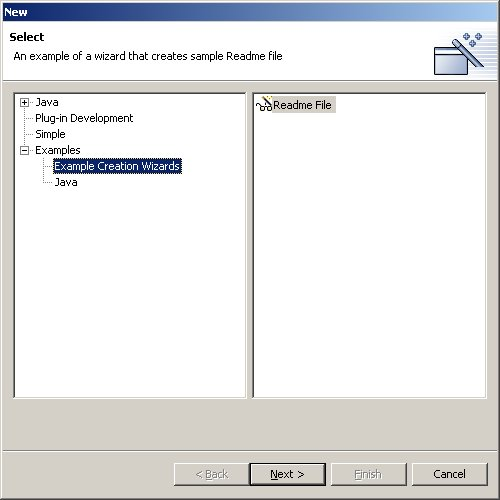
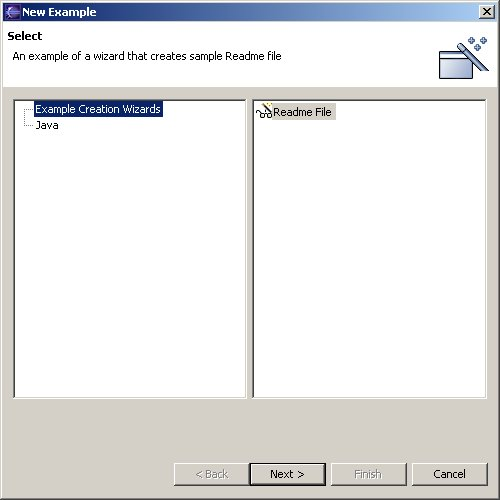
*** empty log message ***

Changed region(s): [[0.0, 0.0, 1.0, 0.39], [0.0, 0.9, 0.99, 0.93], [0.0, 0.0, 0.57, 0.12]]

diff --git a/bundles/org.eclipse.platform.doc.isv/guide/dialogs_wizards_newWizards.htm b/bundles/org.eclipse.platform.doc.isv/guide/dialogs_wizards_newWizards.htm
@@ -16,7 +16,7 @@ org.eclipse.ui.newWizards
 <H3>
 org.eclipse.ui.newWizards</H3>
 <P >
-You can add a wizard to the <b> File-&gt;New </b> menu option in the workbench using the
+You can add a wizard to the <b> File-&gt;New-&gt;Examples... </b> menu option in the workbench using the
 <a href="../reference/extension-points/org_eclipse_ui_newWizards.html"><b> org.eclipse.ui.newWizards</b></a> extension point. The readme
 tool example uses this extension point definition to add the Readme File wizard:</P>
 <font color='#4444CC'><pre>
@@ -39,14 +39,17 @@ tool example uses this extension point definition to add the Readme File wizard:
 &lt;/extension&gt;
 </pre></font>
 <P >
-The <b> category</b> describes where the wizard will be grouped when the wizard selection dialog is used to find and launch a wizard. The category
+The <b> category</b> describes where the wizard will be grouped when the <b>New
+Example</b> wizard shows the available wizards.&nbsp; The category
 <b> name</b> 
-defines the label that is used in the wizard.&nbsp; The wizard itself is
-assigned to the category.&nbsp;&nbsp; Its <b>name</b>, <b>icon</b>,
-and <b>description</b> all show up in the new wizard
-selection dialog shown below.</P>
+ defines the label that is used in the list on the left hand side of the New
+Example wizard.&nbsp; The wizard itself is
+assigned to the category.&nbsp;&nbsp; Its <b>name</b> and <b>icon</b> are shown
+on the right hand side of the wizard when you click on the category.&nbsp; The <b>description</b> 
+of the wizard is shown at the top of the wizard when you select it in the right
+hand list as shown below:</P>
 <P >
-<img border="0" src="images/newwizardlist.jpg" width="500" height="500" alt="New wizard selection dialog with readme entries"></P>
+<img border="0" src="images/newwizardlist.jpg" width="500" height="500" alt="New example wizard with readme entries"></P>
 <P >
 All of this appears based on the markup in the <b>plugin.xml
 </b>file.&nbsp; None of the plug-in code runs
